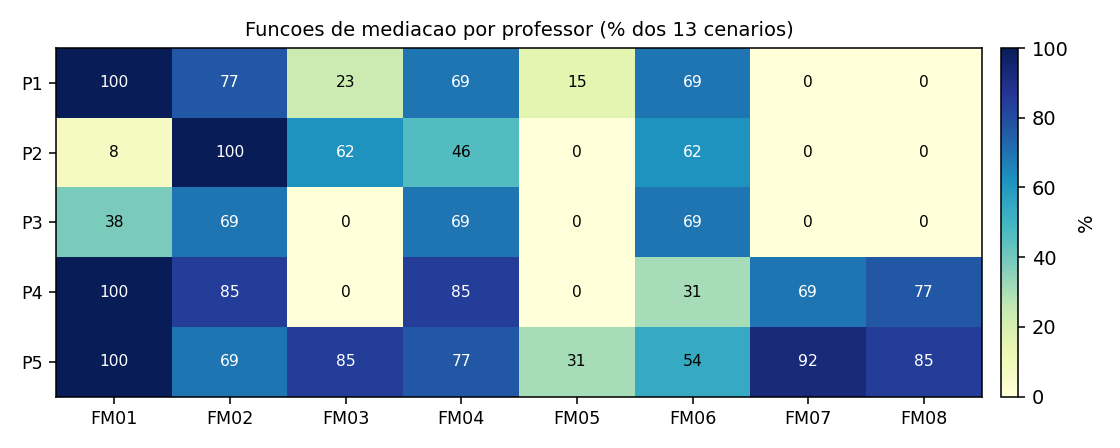
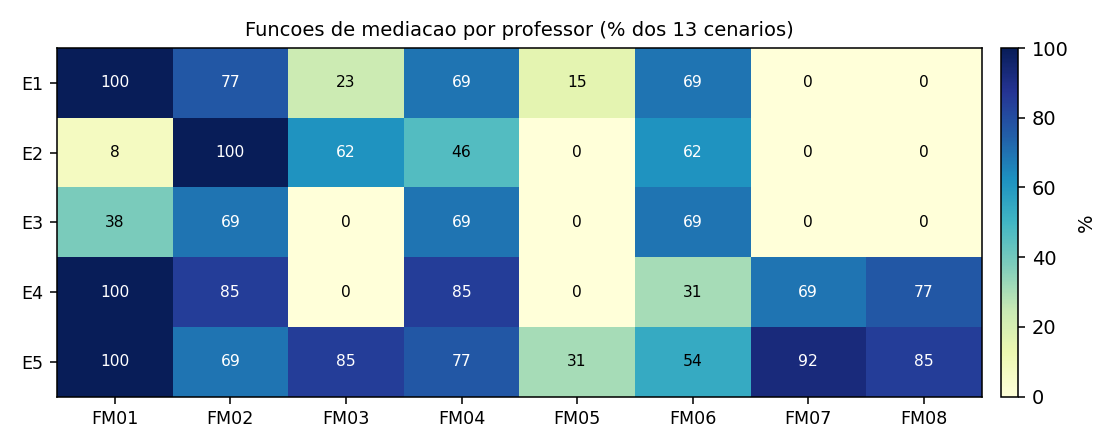
Rename participant codes P1-P5 -> E1-E5 (Especialista) across FM artifacts
Per Prof. Marcelo: "E de Especialista". Codebook, coding script, results,
figure, CSV and key updated; PDFs regenerated.

diff --git a/analises/fm_coding.py b/analises/fm_coding.py
@@ -31,31 +31,31 @@ FUNCS = {
 CODING = {
     # FM02/FM04 ampliadas na v0.2 (pos-kappa): "nomear insuficiencia" e "indicar
     # o que desenvolver / estrategia" passam a contar; "explicar como pergunta" segue FM03.
-    "P1": {
+    "E1": {
         1: [1, 2, 4, 6], 2: [1, 2, 4, 6], 3: [1, 2, 3, 4, 6], 4: [1, 2, 4, 6],
         5: [1, 2, 4, 5, 6], 6: [1, 2, 4, 6], 7: [1, 2, 4, 5, 6], 8: [1, 2, 3],
         9: [1, 2, 4, 6], 10: [1, 2, 3, 4, 6], 11: [1], 12: [1], 13: [1],
     },
-    # P2 recodificado apos correcao do Prof. Marcelo (2026-06-24):
+    # E2 recodificado apos correcao do Prof. Marcelo (2026-06-24):
     # perguntas austeras = FM03 (nao FM02); estrategias "reler/anotar/substituir" e
     # orientacao de o-que-especificar-para-o-leitor = FM04. Registro sem afeto, mas
     # com forte reflexao e andaime procedimental — nao "puramente diagnostico".
-    "P2": {
+    "E2": {
         1: [2, 4, 6], 2: [2, 6], 3: [2, 3], 4: [2, 4, 6], 5: [2, 3, 6], 6: [2, 3],
         7: [2, 4, 6], 8: [2, 3, 4, 6], 9: [2, 3], 10: [2, 3, 4, 6], 11: [2, 4],
         12: [1, 2, 3], 13: [2, 3, 6],
     },
-    "P3": {
+    "E3": {
         1: [2, 4, 6], 2: [2, 4, 6], 3: [2, 4, 6], 4: [2, 4, 6], 5: [2, 4, 6],
         6: [2, 4, 6], 7: [2, 4, 6], 8: [1], 9: [2, 4, 6], 10: [1, 2, 4, 6], 11: [1],
         12: [1], 13: [1],
     },
-    "P4": {
+    "E4": {
         1: [1, 2, 4, 7, 8], 2: [1, 2, 4, 6, 7, 8], 3: [1, 2, 4, 7, 8], 4: [1, 2, 4, 6, 8],
         5: [1, 2, 4, 7, 8], 6: [1, 2, 4, 6, 8], 7: [1, 2, 4, 6, 7, 8], 8: [1, 2, 4, 7, 8],
         9: [1, 2, 4, 7, 8], 10: [1, 2, 4, 7, 8], 11: [1, 2, 4, 7], 12: [1], 13: [1],
     },
-    "P5": {
+    "E5": {
         1: [1, 2, 3, 4, 6, 7, 8], 2: [1, 2, 3, 4, 6, 7, 8], 3: [1, 2, 3, 4, 6, 7, 8],
         4: [1, 2, 3, 4], 5: [1, 2, 3, 4, 7, 8], 6: [1, 2, 4, 6, 7, 8], 7: [1, 4, 5, 7, 8],
         8: [1, 2, 3, 4, 7, 8], 9: [1, 2, 3, 4, 5, 6, 7, 8], 10: [1, 2, 3, 4, 5, 6, 7, 8],
@@ -63,7 +63,7 @@ CODING = {
     },
 }
 
-MISALIGNED = {("P4", 10)}  # devolutiva fala do C9; isolar em contagens por foco
+MISALIGNED = {("E4", 10)}  # devolutiva fala do C9; isolar em contagens por foco
 
 rows = []
 for prof, cens in CODING.items():

diff --git a/analises/fm_resultados.md b/analises/fm_resultados.md
@@ -18,7 +18,7 @@ Nenhuma FM ficou vazia; todas emergem das devolutivas reais. Frequência sobre a
 
 Média de **3,8 funções por devolutiva** (de 1 a 8). Nomear o problema (FM02), oferecer pista (FM04)
 e propor revisão (FM06) são o **núcleo operacional** quase universal; **modelar (FM05) é raro** — só
-P1 e P5 chegam a reescrever um trecho do aluno.
+E1 e E5 chegam a reescrever um trecho do aluno.
 
 ## 2. Há perfis distintos de mediação (a variação vira dado)
 
@@ -26,30 +26,30 @@ P1 e P5 chegam a reescrever um trecho do aluno.
 
 | Prof | FM01 | FM02 | FM03 | FM04 | FM05 | FM06 | FM07 | FM08 | FM/dev |
 |---|--:|--:|--:|--:|--:|--:|--:|--:|--:|
-| P1 | 100 | 77 | 23 | 69 | 15 | 69 | **0** | **0** | 3,5 |
-| P2 | **8** | 100 | 62 | 46 | 0 | 62 | **0** | **0** | 2,8 |
-| P3 | 38 | 69 | **0** | 69 | 0 | 69 | **0** | **0** | 2,5 |
-| P4 | 100 | 85 | **0** | 85 | 0 | 31 | 69 | 77 | 4,5 |
-| P5 | 100 | 69 | 85 | 77 | 31 | 54 | **92** | **85** | 5,9 |
+| E1 | 100 | 77 | 23 | 69 | 15 | 69 | **0** | **0** | 3,5 |
+| E2 | **8** | 100 | 62 | 46 | 0 | 62 | **0** | **0** | 2,8 |
+| E3 | 38 | 69 | **0** | 69 | 0 | 69 | **0** | **0** | 2,5 |
+| E4 | 100 | 85 | **0** | 85 | 0 | 31 | 69 | 77 | 4,5 |
+| E5 | 100 | 69 | 85 | 77 | 31 | 54 | **92** | **85** | 5,9 |
 
-![Figura 1. Funções de mediação por professor (% dos 13 cenários). O núcleo operacional (FM02 nomear, FM04 pista, FM06 revisar) é quase universal; o que distingue os perfis são FM01 (ausente em P2), FM03 (só P2 e P5), FM05 (só P1 e P5) e a camada FM07/FM08 (só P4 e P5).](fm_frequencia.png)
+![Figura 1. Funções de mediação por professor (% dos 13 cenários). O núcleo operacional (FM02 nomear, FM04 pista, FM06 revisar) é quase universal; o que distingue os perfis são FM01 (ausente em E2), FM03 (só E2 e E5), FM05 (só E1 e E5) e a camada FM07/FM08 (só E4 e E5).](fm_frequencia.png)
 
 Lendo as linhas:
 
-- **P2 — austero e reflexivo, sem afeto.** FM02 em 100% e **FM03 em 62%** (devolve o
+- **E2 — austero e reflexivo, sem afeto.** FM02 em 100% e **FM03 em 62%** (devolve o
   problema em forma de pergunta: *"Por que, de repente, ela desfez o marido?"*), com estratégia
   concreta (FM04 46%: *"reler o conto e anotar a sequência"*, *"substituir pelo pronome objeto"*).
   O que ele *não* faz é a camada afetiva: quase nenhum elogio (8%), nunca desafia ampliação nem
   reforça autonomia. Registro seco e centrado no leitor. 2,8 funções/devolutiva.
-- **P3 — telegráfico.** Só o núcleo operacional (FM02/FM04/FM06, todos 69%), sem reflexão, sem
+- **E3 — telegráfico.** Só o núcleo operacional (FM02/FM04/FM06, todos 69%), sem reflexão, sem
   modelagem, sem camada afetivo-expansiva. O mais enxuto, 2,5.
-- **P1 — núcleo + reconhecimento + modelagem, sem expansão.** Reconhece (100%), nomeia, dá pista,
+- **E1 — núcleo + reconhecimento + modelagem, sem expansão.** Reconhece (100%), nomeia, dá pista,
   propõe revisão, e é um dos dois que modelam (FM05) — porém **FM07=FM08=0**: nunca empurra o aluno
   a ir além nem fecha afirmando autonomia. 3,5.
-- **P4 — afetivo-expansivo.** Forte em FM01 (100%), FM07 (69%) e FM08 (77%); também nomeia e aponta
+- **E4 — afetivo-expansivo.** Forte em FM01 (100%), FM07 (69%) e FM08 (77%); também nomeia e aponta
   caminho (FM02/FM04 85%), mas **não usa pergunta reflexiva (FM03=0) nem modela (FM05=0)**, e propõe
   revisão pouco (31%). 4,5.
-- **P5 — andaime completo.** Alto em tudo; único que combina reflexão (85%), modelagem (31%) e a
+- **E5 — andaime completo.** Alto em tudo; único que combina reflexão (85%), modelagem (31%) e a
   camada expansiva (FM07 92%, FM08 85%). 5,9 funções/devolutiva.
 
 ## 3. Um núcleo comum e quatro diferenciadores
@@ -60,16 +60,16 @@ devolutiva (fora os textos-teto puramente elogiados) passa por ele.
 
 O que **distingue** os perfis não é esse núcleo — é a presença/ausência de quatro coisas:
 
-- **FM01 reconhecer** — comum, mas **ausente no P2**.
-- **FM03 reflexão** — só **P2 e P5** (provocação seca no primeiro, andaime no segundo); P3/P4 não usam.
-- **FM05 modelar** — só **P1 e P5**.
-- **FM07/FM08 ampliar + autonomia** — só **P4 e P5**.
+- **FM01 reconhecer** — comum, mas **ausente no E2**.
+- **FM03 reflexão** — só **E2 e E5** (provocação seca no primeiro, andaime no segundo); E3/E4 não usam.
+- **FM05 modelar** — só **E1 e E5**.
+- **FM07/FM08 ampliar + autonomia** — só **E4 e E5**.
 
-Daí os perfis: P5 tem tudo; P2 = núcleo + reflexão, sem afeto; P4 = núcleo + afeto + expansão, sem
-reflexão/modelagem; P1 = núcleo + reconhecimento + modelagem, sem expansão; P3 = núcleo nu.
+Daí os perfis: E5 tem tudo; E2 = núcleo + reflexão, sem afeto; E4 = núcleo + afeto + expansão, sem
+reflexão/modelagem; E1 = núcleo + reconhecimento + modelagem, sem expansão; E3 = núcleo nu.
 
 Isso aterrissa a pergunta do Marcelo ("quais funções queremos que o sistema reproduza?"): o
-repertório completo só aparece no perfil P5; os demais são recortes. Qual perfil a plataforma deve
+repertório completo só aparece no perfil E5; os demais são recortes. Qual perfil a plataforma deve
 espelhar, em complementaridade à professora, passa a ser uma decisão empírica e explícita.
 
 ## 4. A fronteira diretiva × pergunta
@@ -77,17 +77,17 @@ espelhar, em complementaridade à professora, passa a ser uma decisão empírica
 Quando o professor quer que o aluno acrescente opinião ou aprofunde, ele faz isso de dois modos, e
 o modo decide a função: **como diretiva** ("acrescente uma breve opinião sobre Camilo") conta como
 apontar caminho (FM04) sobre uma lacuna nomeada (FM02); **como pergunta** ("o final foi
-surpreendente?") conta como provocar reflexão (FM03). É o que separa, num mesmo texto-teto, o P4
-(diretiva → FM02+FM04) do P5 (pergunta → FM03). Essa distinção foi a principal lição da rodada de
+surpreendente?") conta como provocar reflexão (FM03). É o que separa, num mesmo texto-teto, o E4
+(diretiva → FM02+FM04) do E5 (pergunta → FM03). Essa distinção foi a principal lição da rodada de
 κ e está fixada no codebook v0.2.
 
 ## 5. Honestidade metodológica
 
 1. **Correções incorporadas (Prof. Marcelo, 2026-06-24).** (a) Terminologia: saiu a palavra
-   "diagnóstico" (não consta em nenhuma FM); a análise usa só o vocabulário das funções. (b) O P2,
+   "diagnóstico" (não consta em nenhuma FM); a análise usa só o vocabulário das funções. (b) O E2,
    antes lido como "puramente diagnóstico", foi recodificado (FM03 23→62%, FM04 8→46%) após viés
    sistemático meu de subler perguntas e estratégias austeras.
-2. **P4/C10 desalinhada** (conteúdo do C9) segue marcada; codificável por função, mas isolada em
+2. **E4/C10 desalinhada** (conteúdo do C9) segue marcada; codificável por função, mas isolada em
    qualquer contagem por foco.
 3. **FM02/FM04 retêm subjetividade.** Foram as funções de menor κ (§6); a v0.2 as tornou mais
    inclusivas. Mesmo o especialista mostrou inconsistência residual em itens quase idênticos — a

diff --git a/analises/codebook_funcoes_mediacao.md b/analises/codebook_funcoes_mediacao.md
@@ -4,7 +4,7 @@
 > Mudança v0.1→v0.2: FM02 e FM04 ampliadas após a rodada de concordância (κ) com o Prof. Marcelo —
 > as duas funções de menor κ. Ver nota nas próprias definições e em `fm_resultados.md` §6.
 > Taxonomia proposta pelo Prof. Marcelo (FM01–FM08), operacionalizada sobre o corpus de referência especializada.
-> Corpus: 5 professores (P1–P5) × 13 cenários = 65 devolutivas. Fonte: `data/baseline_humano/respostas_professores.jsonl`.
+> Corpus: 5 professores (E1–E5) × 13 cenários = 65 devolutivas. Fonte: `data/baseline_humano/respostas_professores.jsonl`.
 
 ---
 
@@ -51,9 +51,9 @@ o vetor de 8 κ é o resultado honesto.
   organização, vocabulário).
 - **Exclusão:** encorajamento genérico voltado ao futuro ("continue se dedicando", "estás no
   caminho certo") **sem** nomear uma competência → isso é FM08, não FM01.
-- **Âncora (P5/C1):** *"Parabéns! Você identificou um dos acontecimentos mais importantes do conto:
+- **Âncora (E5/C1):** *"Parabéns! Você identificou um dos acontecimentos mais importantes do conto:
   a confiança de Camilo nas palavras da cartomante e o desfecho inesperado da história."*
-- **Caso-limite (P4/C1):** *"Continue se dedicando, pois já demonstraste compreender a história."* —
+- **Caso-limite (E4/C1):** *"Continue se dedicando, pois já demonstraste compreender a história."* —
   a 2ª oração nomeia uma competência (compreensão) → FM01; o "continue se dedicando" isolado seria
   só FM08.
 
@@ -67,9 +67,9 @@ o vetor de 8 κ é o resultado honesto.
 - **Exclusão:** levar o aluno a *descobrir* o problema por uma pergunta aberta → FM03. Pedir
   reescrita sem indicar o que está inadequado → FM06. Texto-teto elogiado sem apontar insuficiência
   → não marcar.
-- **Âncora (P2/C2):** *"Você usou \"ele\" muitas vezes, sem deixar claro a quem se referia o pronome
+- **Âncora (E2/C2):** *"Você usou \"ele\" muitas vezes, sem deixar claro a quem se referia o pronome
   a cada vez."*
-- **Caso-limite (P1/C3):** *"A palavra \"portanto\" não parece adequada. Por qual palavra você
+- **Caso-limite (E1/C3):** *"A palavra \"portanto\" não parece adequada. Por qual palavra você
   poderia substituí-la?"* — "portanto não parece adequada" é FM02; "por qual palavra você poderia
   substituí-la?" é FM03. Mesma devolutiva, duas funções.
 
@@ -80,9 +80,9 @@ o vetor de 8 κ é o resultado honesto.
   "A personagem estava realmente feliz?").
 - **Exclusão:** pergunta retórica que já contém a correção dentro de si → conta como FM02 (o
   problema foi nomeado, só que em forma interrogativa).
-- **Âncora (P2/C3):** *"O que exatamente te fez rir? Por que o final é chocante? Por que era óbvio
+- **Âncora (E2/C3):** *"O que exatamente te fez rir? Por que o final é chocante? Por que era óbvio
   que ia acontecer aquilo?"*
-- **Caso-limite (P1/C10):** *"(se era horrível, o natural seria ele querer sair, então o \"mas\" não
+- **Caso-limite (E1/C10):** *"(se era horrível, o natural seria ele querer sair, então o \"mas\" não
   cabe aqui)"* — embora pareça reflexão, a resposta já está dada no parêntese → FM02, não FM03.
 
 ### FM04 — Oferecer pista
@@ -94,9 +94,9 @@ o vetor de 8 κ é o resultado honesto.
 - **Exclusão:** apresentar uma frase já reescrita do aluno → FM05. Apenas mandar reescrever sem dar
   o caminho → FM06. **Fronteira com FM03:** a mesma orientação dada **como diretiva** é FM04; dada
   **como pergunta aberta** ("o que você achou das atitudes de X?") é FM03.
-- **Âncora (P1/C1):** *"para evitar essa repetição, usar o nome da cartomante, ou usar \"ela\" ou
+- **Âncora (E1/C1):** *"para evitar essa repetição, usar o nome da cartomante, ou usar \"ela\" ou
   \"a mulher\"."*
-- **Caso-limite (P5/C4):** *"Você pode utilizar marcadores temporais como: Primeiro... Depois...
+- **Caso-limite (E5/C4):** *"Você pode utilizar marcadores temporais como: Primeiro... Depois...
   Mais tarde... Finalmente..."* — oferece ferramentas (pista), mas **não** monta a frase do aluno →
   FM04, não FM05.
 
@@ -105,10 +105,10 @@ o vetor de 8 κ é o resultado honesto.
   próprio trecho do aluno).
 - **Inclusão:** o especialista escreve um exemplo que materializa o conserto.
 - **Exclusão:** apenas nomear palavras/recursos a usar, sem montar o exemplo → FM04.
-- **Âncora (P5/C13):** *"Sugestão de ampliação: \"Sem saída, desceu pelo elevador; logo depois,
+- **Âncora (E5/C13):** *"Sugestão de ampliação: \"Sem saída, desceu pelo elevador; logo depois,
   percebeu que a confusão só aumentava, pois os moradores começaram a observá-lo com espanto...\""* —
   reescreve a frase do próprio aluno.
-- **Caso-limite (P1/C7):** *"Tente usar palavras que indiquem o tempo para unir as frases, como por
+- **Caso-limite (E1/C7):** *"Tente usar palavras que indiquem o tempo para unir as frases, como por
   exemplo: \"Assim que abriu a porta, o bonde passou.\""* — é exemplo-modelo (FM05), ainda que não
   seja a frase exata do aluno; a fronteira com FM04 é a presença de uma frase pronta.
 
@@ -117,8 +117,8 @@ o vetor de 8 κ é o resultado honesto.
 - **Inclusão:** "vamos reescrever", "o texto precisa ser reescrito", "reorganize seguindo a ordem".
 - **Exclusão:** desafio de **acrescentar** conteúdo novo (opinião, análise, detalhe) que não estava
   lá → FM07.
-- **Âncora (P1/C1):** *"Vamos reescrever esse trecho a partir dessas dicas?!"*
-- **Caso-limite (P2/C2):** *"O texto precisa ser reescrito."* — FM06 puro (sem pista, sem modelo);
+- **Âncora (E1/C1):** *"Vamos reescrever esse trecho a partir dessas dicas?!"*
+- **Caso-limite (E2/C2):** *"O texto precisa ser reescrito."* — FM06 puro (sem pista, sem modelo);
   útil para mostrar que FM06 pode ocorrer sozinho.
 
 ### FM07 — Desafiar ampliação
@@ -127,9 +127,9 @@ o vetor de 8 κ é o resultado honesto.
 - **Inclusão:** "acrescente sua opinião", "aprofunde sua análise", "desenvolva mais", "desafio para
   a reescrita: acrescentar...".
 - **Exclusão:** consertar um problema existente → FM06. Reescrever para o aluno → FM05.
-- **Âncora (P5/C1):** *"Desafio para a reescrita: acrescentar uma frase avaliando a história e
+- **Âncora (E5/C1):** *"Desafio para a reescrita: acrescentar uma frase avaliando a história e
   utilizar menos repetições."* (a 1ª metade é FM07; "menos repetições" é FM06.)
-- **Caso-limite (P1/C9):** *"O desafio que vou te dar é transformar essas 10 frases em 3 ou 4 frases
+- **Caso-limite (E1/C9):** *"O desafio que vou te dar é transformar essas 10 frases em 3 ou 4 frases
   mais longas e conectadas."* — reestruturar o que existe → FM06; só seria FM07 se pedisse conteúdo
   novo. Fronteira a observar de perto na codificação.
 
@@ -139,15 +139,15 @@ o vetor de 8 κ é o resultado honesto.
 - **Inclusão:** "estás no caminho certo", "vamos seguir em frente", "você consegue", convite à
   continuidade.
 - **Exclusão:** elogio que nomeia uma competência específica demonstrada no texto → FM01.
-- **Âncora (P5/C10):** *"Você teve um ótimo começo! Vamos seguir em frente!"*
-- **Caso-limite (P4/C2):** *"Continues te dedicando, pois está no caminho certo."* — afirmação
+- **Âncora (E5/C10):** *"Você teve um ótimo começo! Vamos seguir em frente!"*
+- **Caso-limite (E4/C2):** *"Continues te dedicando, pois está no caminho certo."* — afirmação
   prospectiva da capacidade, sem nomear o que foi feito → FM08, não FM01.
 
 ---
 
 ## Sinalização de qualidade de dados (antes de qualquer contagem)
 
-- **P4 / Cenário 10 — desalinhamento:** a devolutiva fala da "investigação realizada pelo detetive"
+- **E4 / Cenário 10 — desalinhamento:** a devolutiva fala da "investigação realizada pelo detetive"
   (conteúdo do C9, *O Caso da Borboleta*), não de *Cemitério dos Vivos* (C10). Provável erro de
   cópia. **Isolar esta célula** e, se possível, confirmar com o respondente antes de contar por foco.
   A codificação de FMs pode prosseguir (as funções não dependem do conteúdo correto), mas a célula